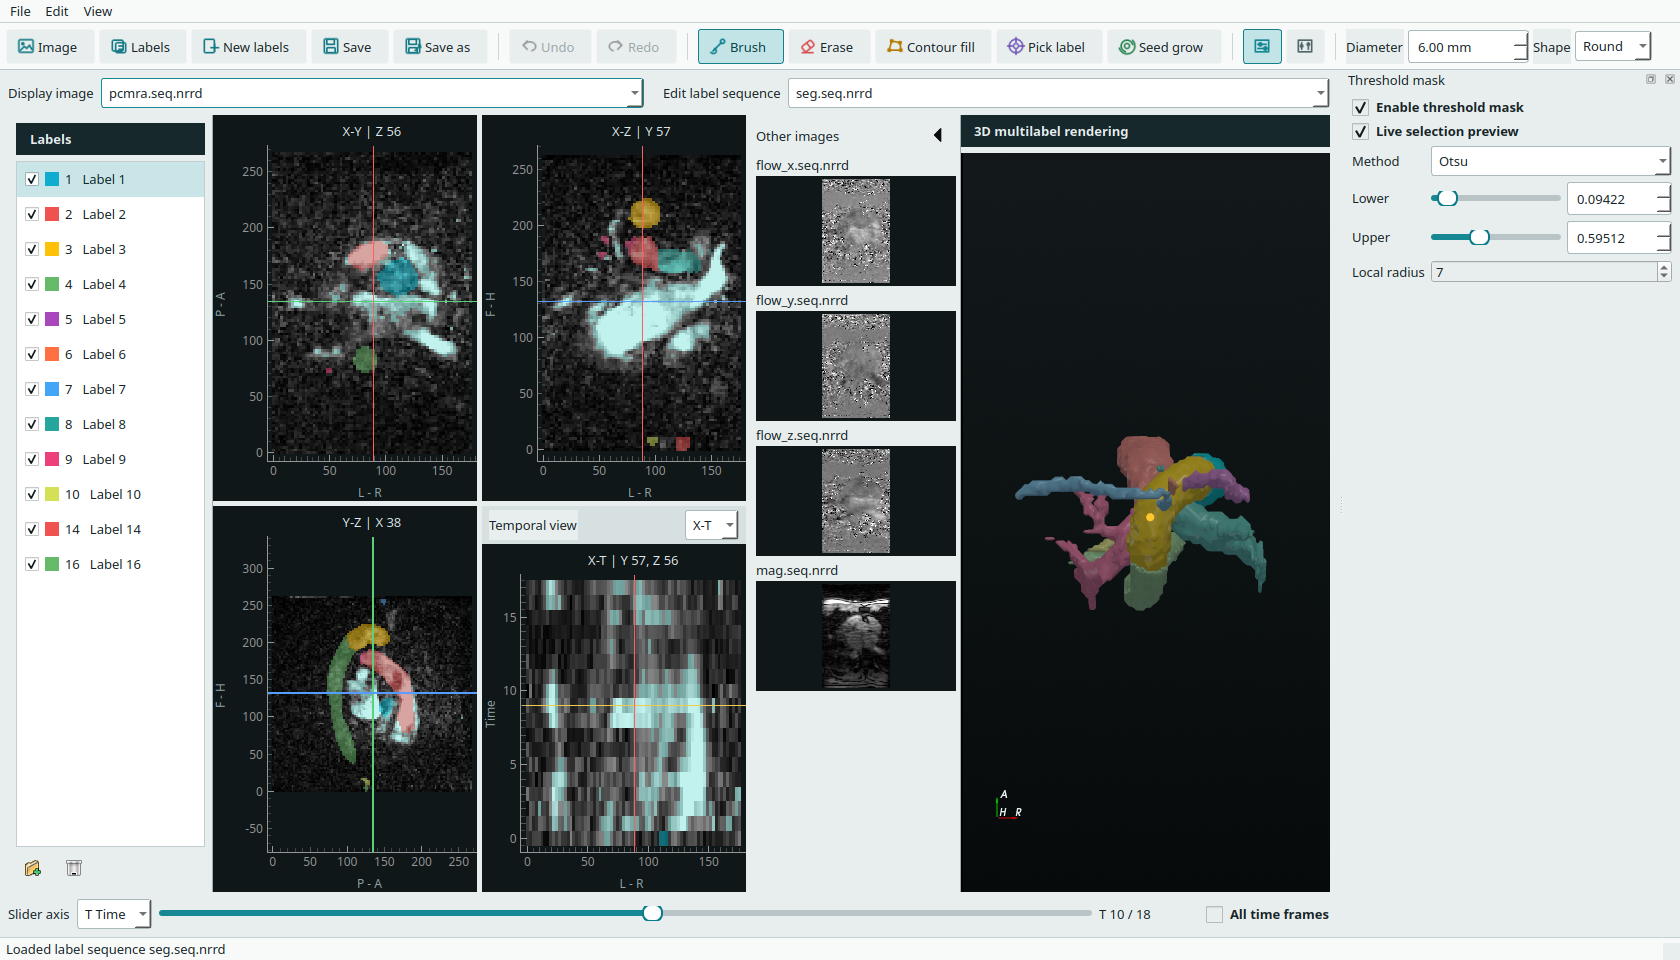
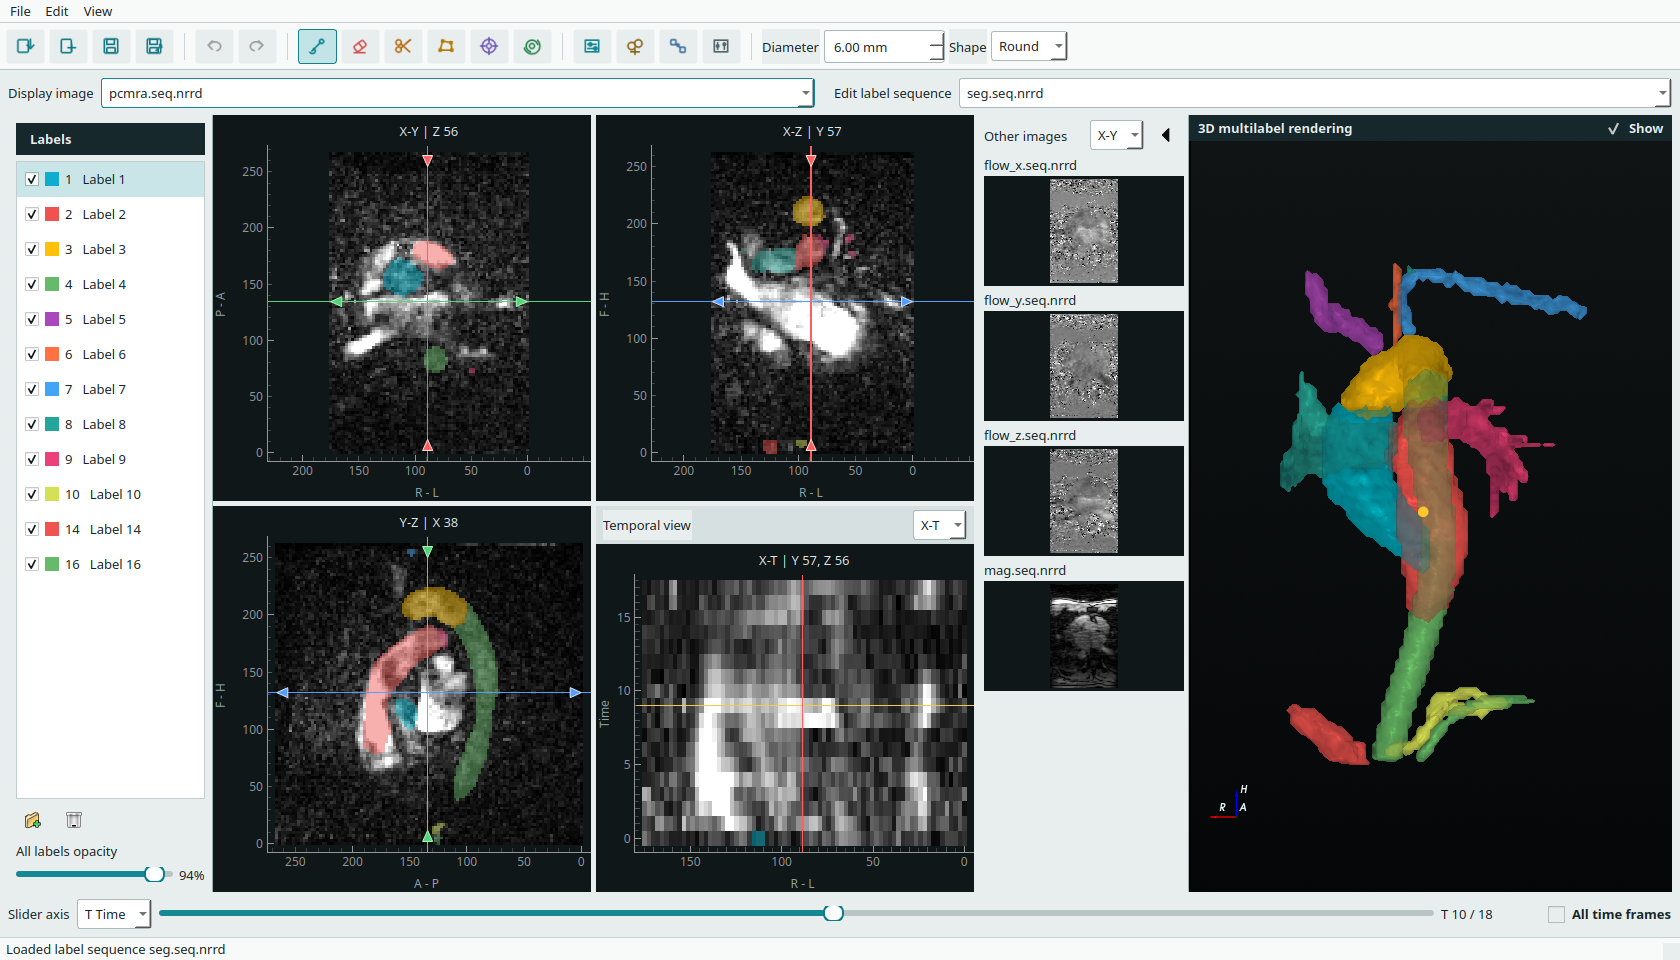
Update application for 0.2.5

diff --git a/tests/test_slice_interactions.py b/tests/test_slice_interactions.py
@@ -8,7 +8,12 @@ from PySide6.QtWidgets import QApplication
 
 from spatiotemporal_labeler.ui.icons import tool_icon
 from spatiotemporal_labeler.model import default_label
-from spatiotemporal_labeler.ui.slice_view import EditableImageItem, SliceView, label_overlay
+from spatiotemporal_labeler.ui.slice_view import (
+    EditableImageItem,
+    SliceView,
+    TemporalView,
+    label_overlay,
+)
 
 
 class ClickEvent:
@@ -288,3 +293,28 @@ def test_yz_view_runs_from_anterior_to_posterior():
 
     view.close()
     view.deleteLater()
+
+
+def test_x_spatial_and_temporal_views_run_from_right_to_left():
+    ensure_application()
+    spatial_views = [SliceView("X-Y"), SliceView("X-Z")]
+    temporal_view = TemporalView()
+    temporal_view.set_sequence_slice(
+        np.zeros((8, 3), dtype=np.float32),
+        None,
+        "X-T",
+        1.0,
+        (0.0, 1.0),
+        0,
+        "Y 0, Z 0",
+    )
+
+    for view in spatial_views:
+        assert view.getAxis("bottom").labelText == "R - L"
+        assert view.getViewBox().state["xInverted"]
+    assert temporal_view.getAxis("bottom").labelText == "R - L"
+    assert temporal_view.getViewBox().state["xInverted"]
+
+    for view in [*spatial_views, temporal_view]:
+        view.close()
+        view.deleteLater()

diff --git a/tests/test_main_window_features.py b/tests/test_main_window_features.py
@@ -678,6 +678,21 @@ def test_3d_viewer_uses_non_inertial_trackball_interaction():
     viewer.deleteLater()
 
 
+def test_3d_viewer_starts_in_coronal_right_to_left_orientation():
+    ensure_application()
+    viewer = Mask3DViewer()
+    camera = viewer.renderer.GetActiveCamera()
+    view_direction = np.asarray(camera.GetDirectionOfProjection())
+    view_up = np.asarray(camera.GetViewUp())
+    screen_right = np.cross(view_direction, view_up)
+
+    assert np.allclose(view_direction, (0.0, -1.0, 0.0))
+    assert np.allclose(view_up, (0.0, 0.0, 1.0))
+    assert np.allclose(screen_right, (-1.0, 0.0, 0.0))
+    viewer.close()
+    viewer.deleteLater()
+
+
 def test_3d_left_drag_is_reserved_for_lasso_and_alt_left_reaches_rotation():
     ensure_application()
     viewer = Mask3DViewer()

diff --git a/src/spatiotemporal_labeler/ui/slice_view.py b/src/spatiotemporal_labeler/ui/slice_view.py
@@ -20,11 +20,11 @@ pg.setConfigOption("imageAxisOrder", "row-major")
 
 
 PLANE_DIRECTIONS = {
-    "X-Y": ("L - R", "P - A"),
-    "X-Z": ("L - R", "F - H"),
+    "X-Y": ("R - L", "P - A"),
+    "X-Z": ("R - L", "F - H"),
     "Y-Z": ("A - P", "F - H"),
 }
-TEMPORAL_DIRECTIONS = {"X-T": "L - R", "Y-T": "P - A", "Z-T": "F - H"}
+TEMPORAL_DIRECTIONS = {"X-T": "R - L", "Y-T": "P - A", "Z-T": "F - H"}
 AXIS_COLORS = {"X": "#ff5f5f", "Y": "#58d178", "Z": "#579dff", "T": "#f1cc4b"}
 
 
@@ -469,7 +469,7 @@ class SliceView(pg.PlotWidget):
         bottom, left = PLANE_DIRECTIONS[plane]
         self.getPlotItem().setLabel("bottom", bottom, color="#8ea4a8")
         self.getPlotItem().setLabel("left", left, color="#8ea4a8")
-        self.getViewBox().invertX(plane == "Y-Z")
+        self.getViewBox().invertX(True)
         self.getViewBox().invertY(False)
         self.image_item.strokeStarted.connect(self._stroke_started)
         self.image_item.strokeMoved.connect(self._stroke_moved)
@@ -828,6 +828,7 @@ class TemporalView(pg.PlotWidget):
         )
         self.getPlotItem().setLabel("bottom", TEMPORAL_DIRECTIONS[mode], color="#8ea4a8")
         self.getPlotItem().setLabel("left", "Time", color="#8ea4a8")
+        self.getViewBox().invertX(mode == "X-T")
         axis = mode[0]
         self.spatial_line.setPen(pg.mkPen(AXIS_COLORS[axis], width=1.3))
         signature = (float(width), float(height), float(spacing))

diff --git a/src/spatiotemporal_labeler/ui/viewer_3d.py b/src/spatiotemporal_labeler/ui/viewer_3d.py
@@ -273,6 +273,11 @@ class Mask3DViewer(QWidget):
         self.renderer.SetBackground(0.025, 0.040, 0.044)
         self.renderer.SetBackground2(0.075, 0.100, 0.105)
         self.renderer.GradientBackgroundOn()
+        camera = self.renderer.GetActiveCamera()
+        camera.SetPosition(0.0, 1.0, 0.0)
+        camera.SetFocalPoint(0.0, 0.0, 0.0)
+        camera.SetViewUp(0.0, 0.0, 1.0)
+        camera.OrthogonalizeViewUp()
         # VTK FXAA can blank a renderer under forwarded X11/OpenGL. MSAA on the
         # render window provides compatible antialiasing on Linux and Windows.
         self.renderer.UseFXAAOff()